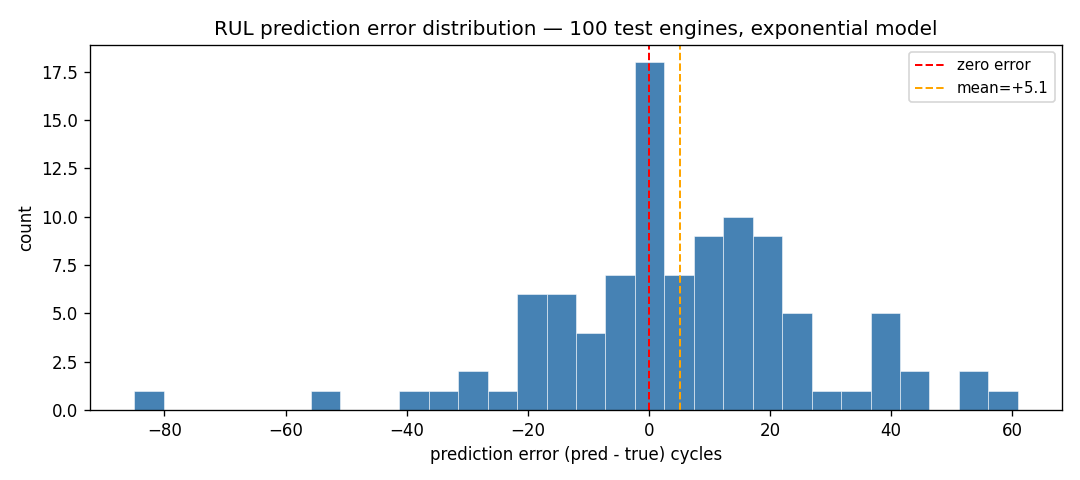
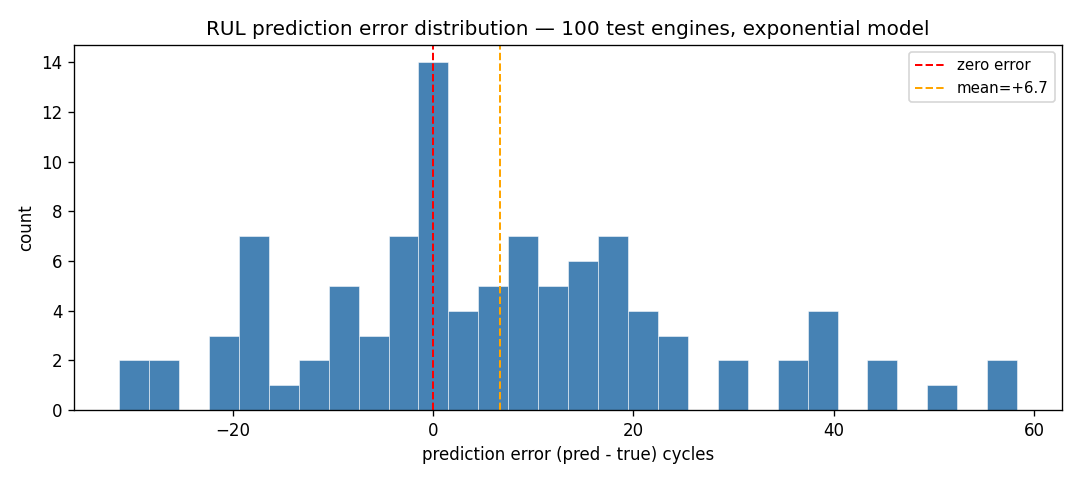
added gradient clipping to stop exploding

diff --git a/06_evaluation_exp.py b/06_evaluation_exp.py
@@ -22,7 +22,6 @@ global_max_cycle = train_data[:, 1].max()
 def exp_model(t, alpha, beta, gamma):
     return alpha + beta * np.exp(gamma * t)
 
-print("fitting exponential curves to training engines to derive priors...")
 alphas, betas, gammas = [], [], []
 for eid in range(1, 101):
     e = train_data[train_data[:, 0] == eid]
@@ -96,7 +95,9 @@ def process_engine(args):
         g_alpha = (1/sig_n**2)*np.sum(r)                         - (alpha-mu_a) /sig_a**2
         g_phi   = (1/sig_n**2)*np.sum(r*exp_gt)*beta             - (phi  -mu_ph)/sig_ph**2
         g_psi   = (1/sig_n**2)*np.sum(r*beta*cycles*exp_gt)*gamma- (psi  -mu_ps)/sig_ps**2
-        return np.array([g_alpha, g_phi, g_psi])
+        # clip gradient magnitude — stops leapfrog exploding on steep parts of the landscape
+        # (long engines near failure have very large exp(gamma*t) terms)
+        return np.clip(np.array([g_alpha, g_phi, g_psi]), -50, 50)
 
     def leapfrog(theta, p):
         theta = theta.copy(); p = p.copy()
@@ -165,9 +166,9 @@ if __name__ == "__main__":
     print("CI shown as 5th<=x<=95th percentile  |  target acc 60-80%")
 
     cfg = dict(
-        mu_alpha=mu_alpha,       sigma_alpha=sigma_alpha,
-        mu_phi=mu_phi,           sigma_phi=sigma_phi,
-        mu_psi=mu_psi,           sigma_psi=sigma_psi,
+        mu_alpha=mu_alpha,sigma_alpha=sigma_alpha,
+        mu_phi=mu_phi,sigma_phi=sigma_phi,
+        mu_psi=mu_psi,sigma_psi=sigma_psi,
         sigma_noise=sigma_noise, epsilon=epsilon,
         L=L, n_samples=n_samples, burn_in=burn_in,
         failure_threshold=failure_threshold,
@@ -198,12 +199,19 @@ if __name__ == "__main__":
     abs_errors = np.abs(errors)
     true_ruls  = np.array([r["true_rul"] for r in results])
     pred_ruls  = np.array([r["mean_rul"] for r in results])
+    ci_lows    = np.array([r["ci_low"]   for r in results])
     ci_highs   = np.array([r["ci_high"]  for r in results])
+
+    # coverage = fraction of true RULs that fall inside our 90% CI
+    # want this close to 90% — too high means CI is too wide, too low means too confident
+    covered  = (true_ruls >= ci_lows) & (true_ruls <= ci_highs)
+    coverage = covered.mean()
 
     print(f"\nsummary:")
     print(f"mae:        {abs_errors.mean():.1f} cycles")
     print(f"rmse:       {np.sqrt((errors**2).mean()):.1f} cycles")
     print(f"mean error (bias): {errors.mean():+.1f} cycles")
+    print(f"coverage (90% CI): {coverage:.1%}  ({covered.sum()}/100 engines)")
     print(f"90% confident fleet fails within median {np.median(ci_highs):.0f} cycles  "
           f"(vs median true RUL: {np.median(true_ruls):.0f})")
 
@@ -219,7 +227,7 @@ if __name__ == "__main__":
     plt.tight_layout()
     plt.savefig(f"{fig_dir}/pred_vs_true_rul.png", dpi=120)
     plt.close()
-    print("saved pred_vs_true_rul.png")
+   
 
     # plot 2: error distribution
     fig, ax = plt.subplots(figsize=(9, 4))
@@ -234,4 +242,3 @@ if __name__ == "__main__":
     plt.tight_layout()
     plt.savefig(f"{fig_dir}/error_distribution.png", dpi=120)
     plt.close()
-    print("saved error_distribution.png")

diff --git a/03_hmc_sampler_exp.py b/03_hmc_sampler_exp.py
@@ -78,7 +78,8 @@ def compute_gradients(alpha, phi, psi):
     g_psi   = (1 / sigma_noise**2) * np.sum(r * beta * cycles * exp_gt) * gamma \
             - (psi - mu_psi) / sigma_psi**2
 
-    return np.array([g_alpha, g_phi, g_psi])
+    # clip gradient magnitude — stops leapfrog exploding on steep parts of the landscape
+    return np.clip(np.array([g_alpha, g_phi, g_psi]), -50, 50)
 
 
 def leapfrog(theta, p):
